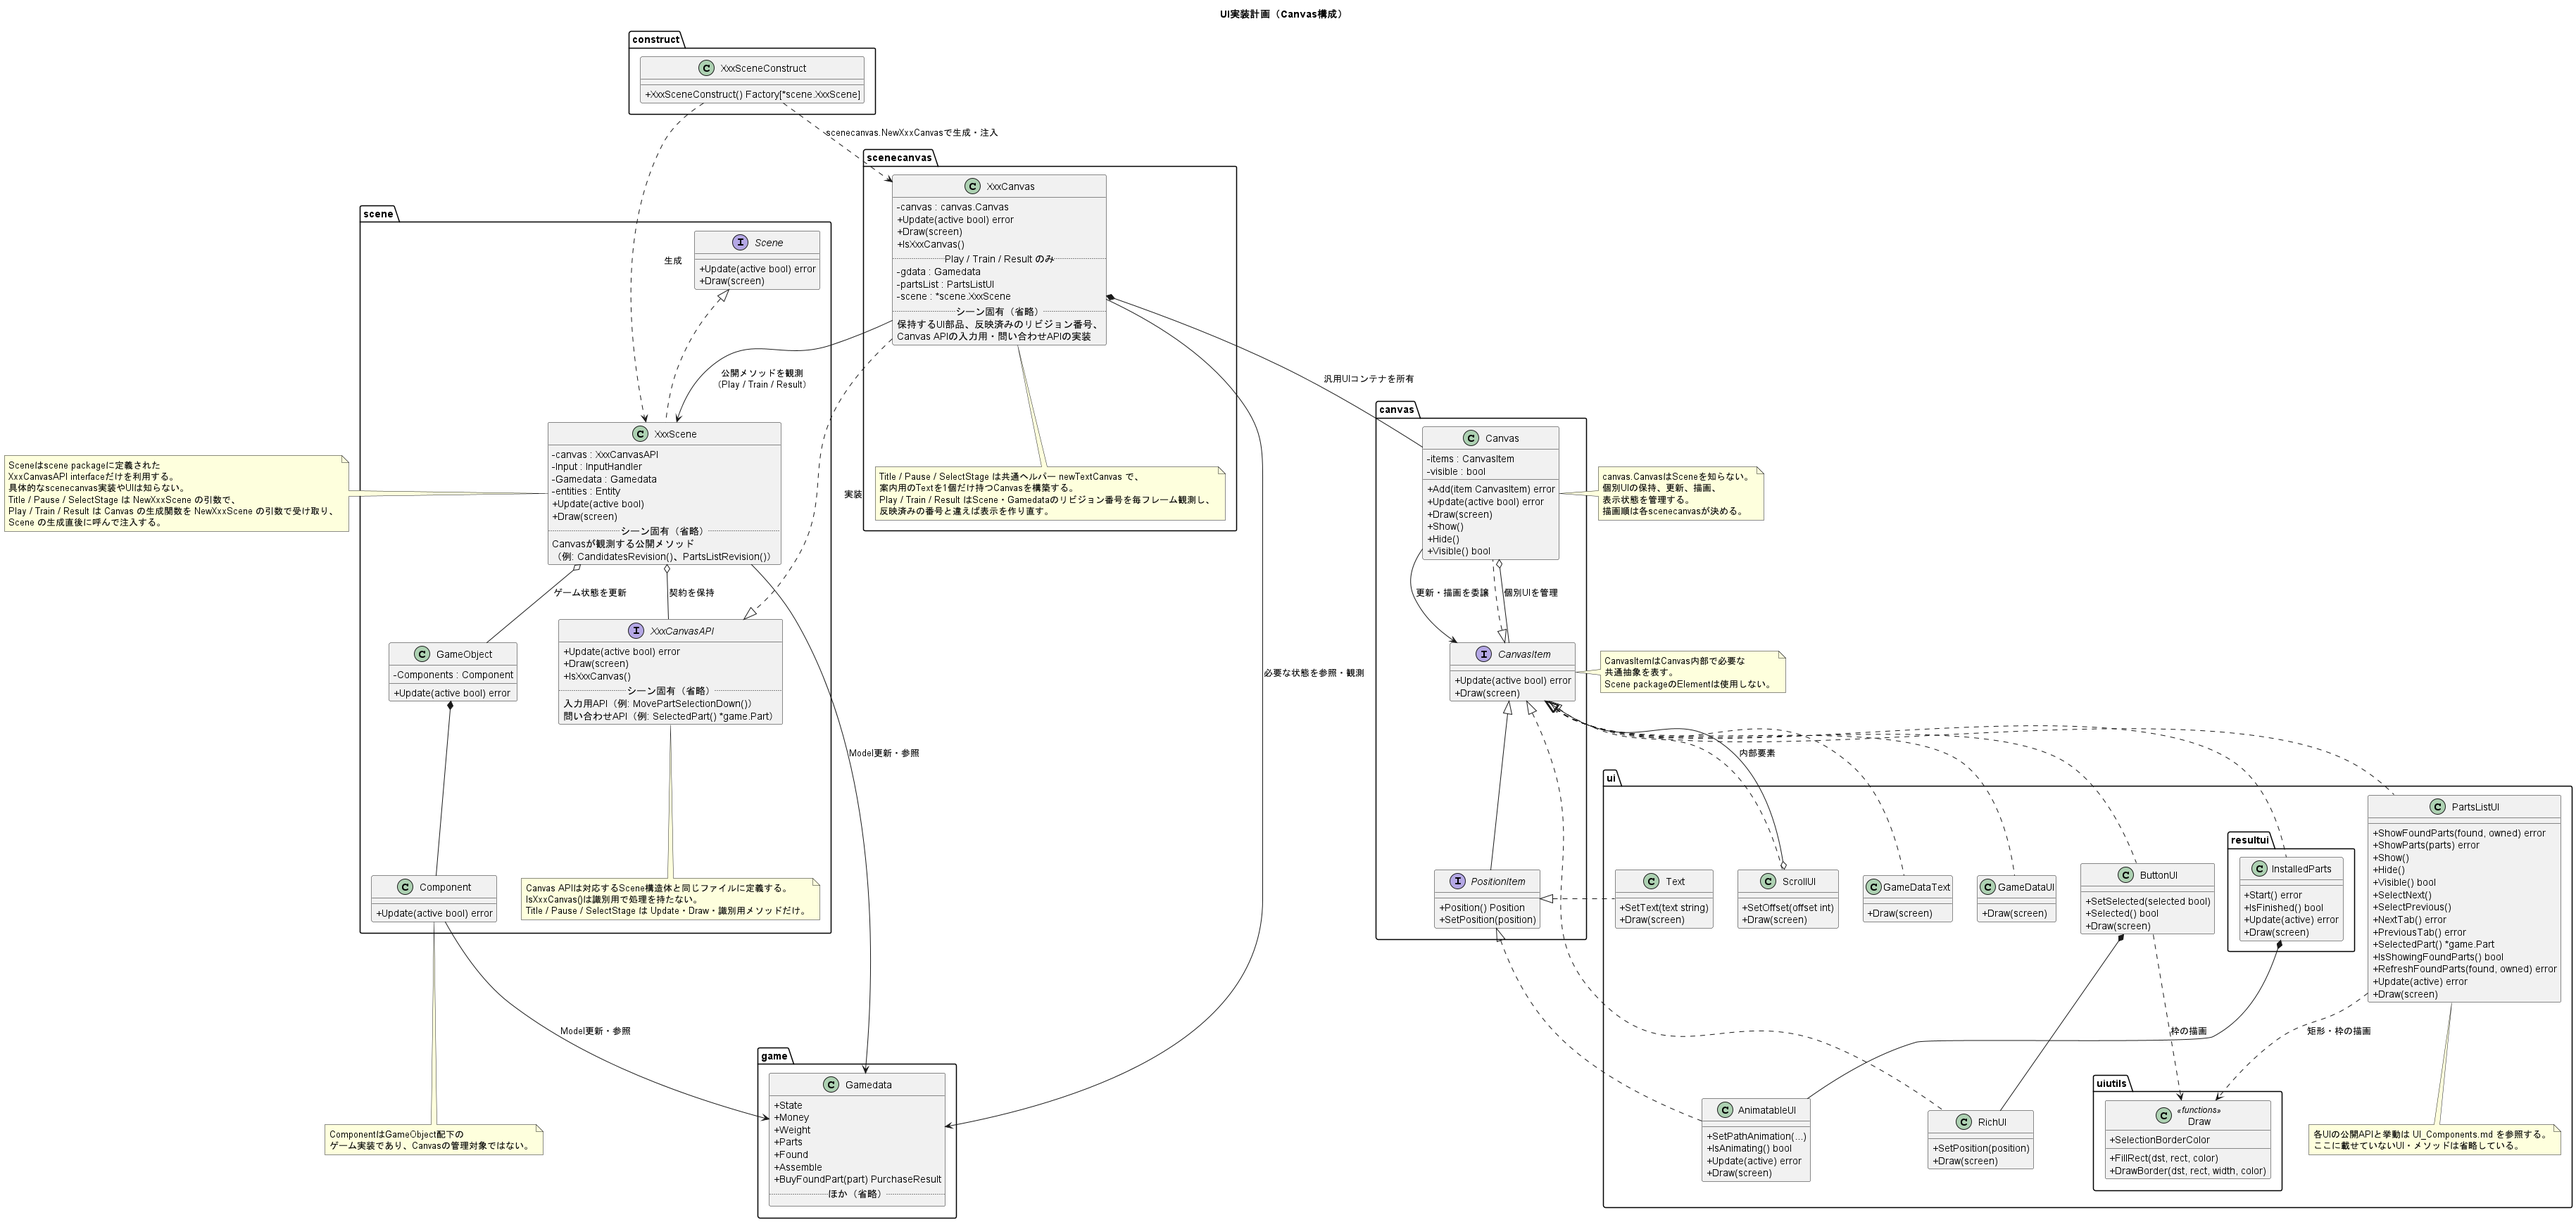
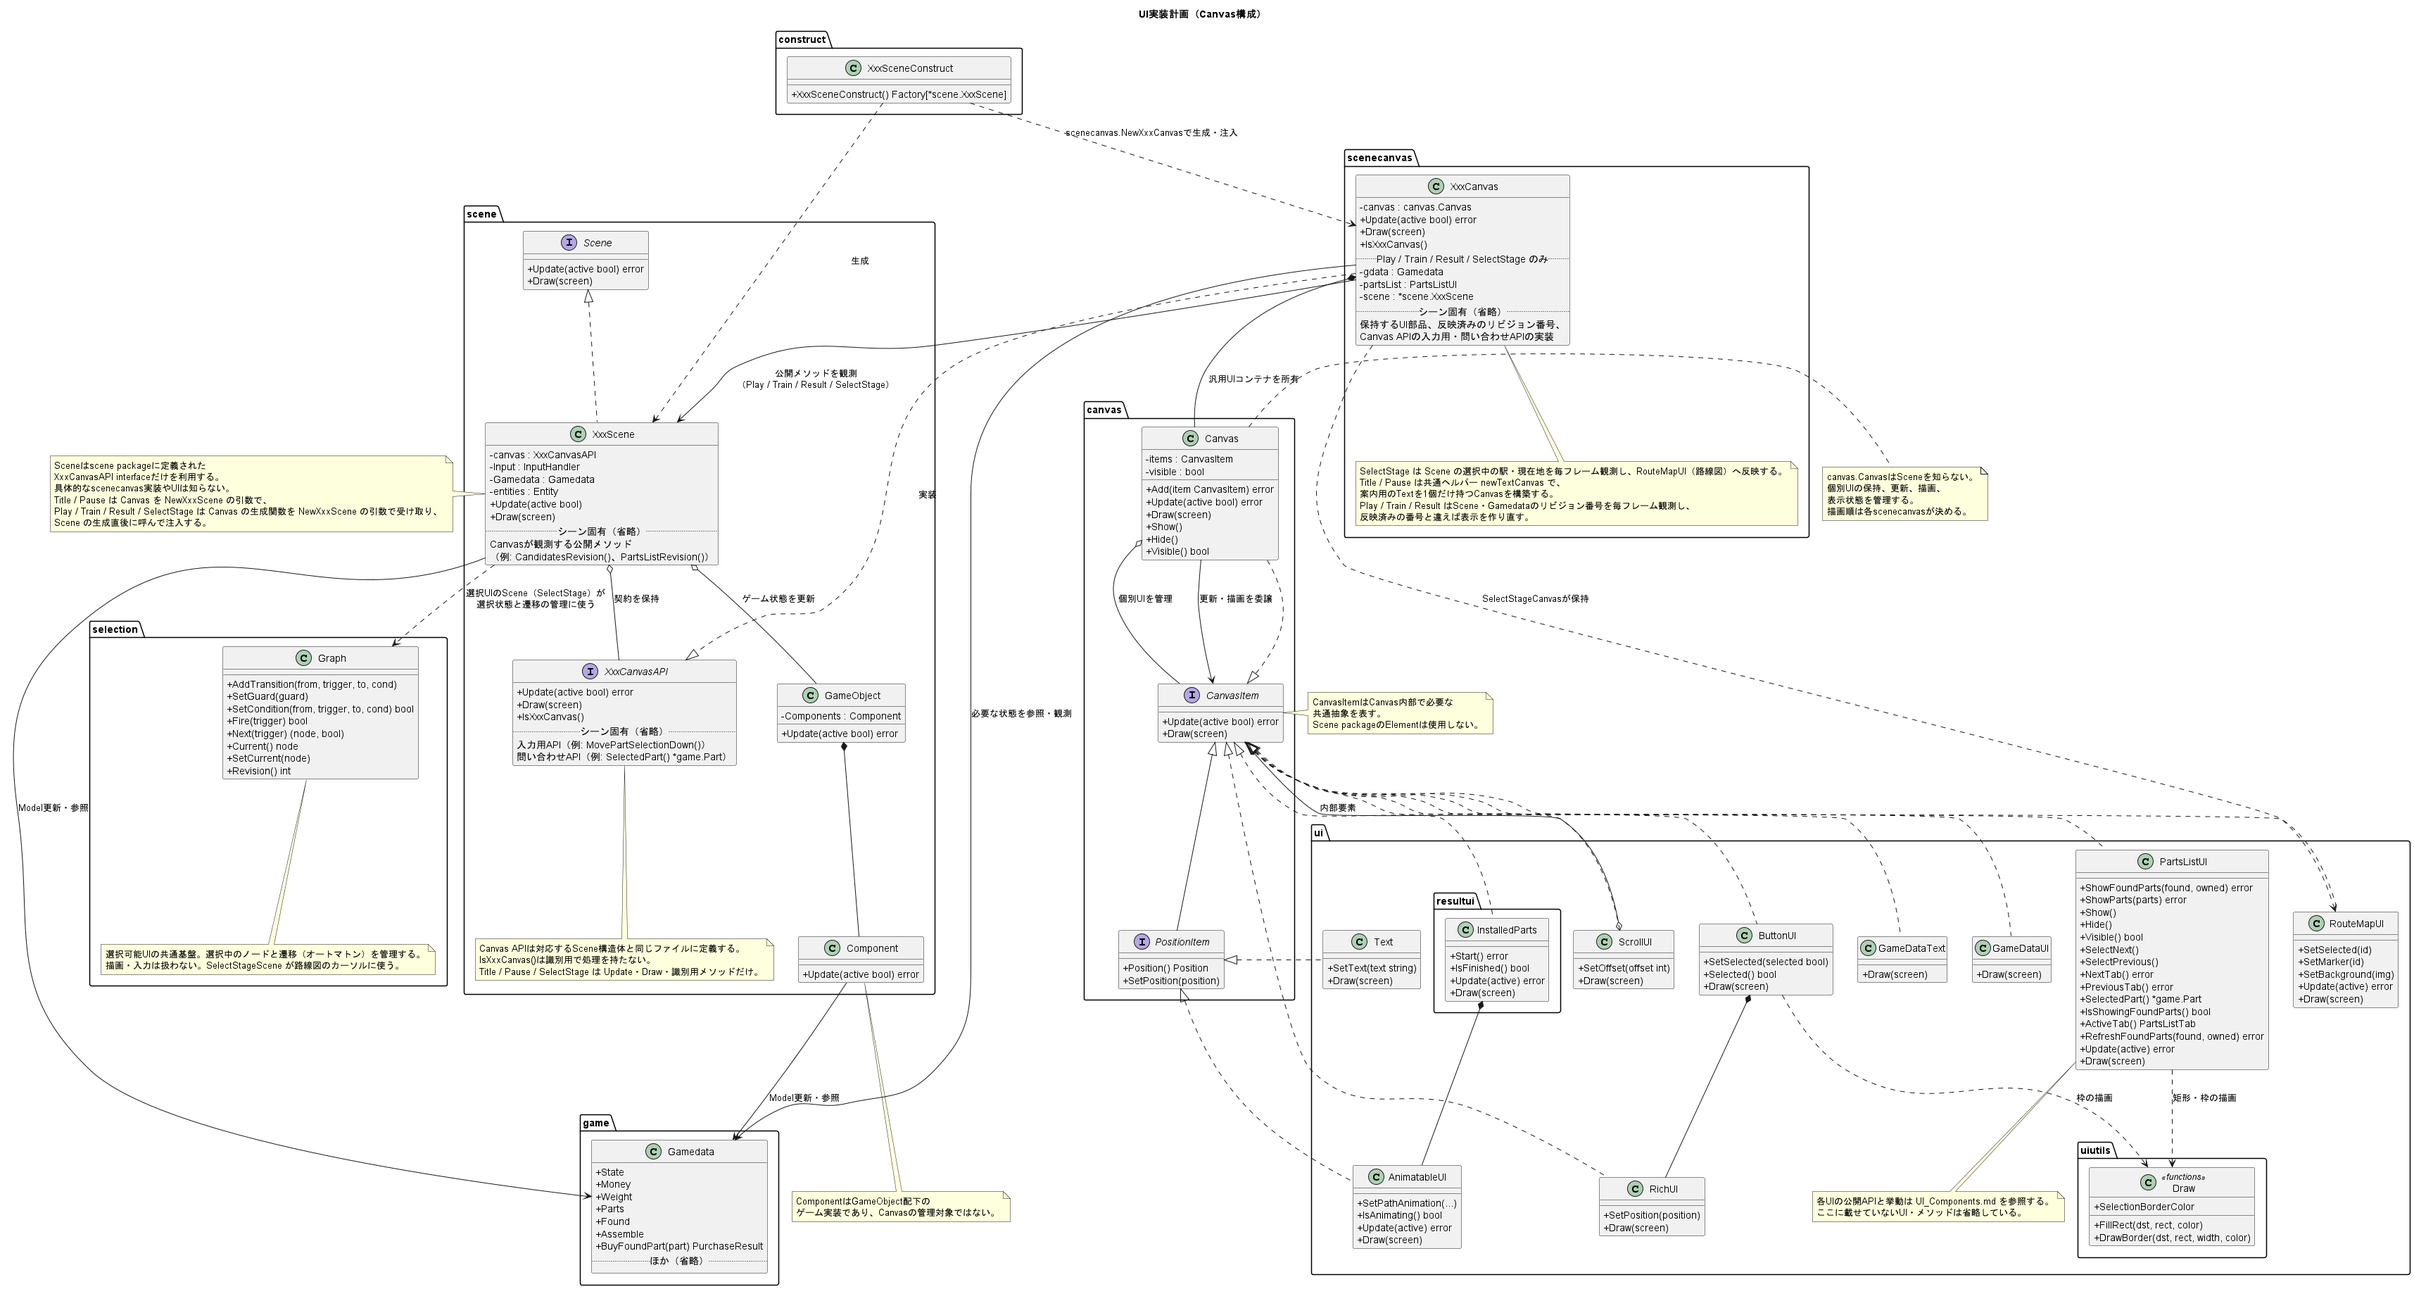
行き先選択UIと選択基盤のドキュメントを追加する
- UI.md: SelectStageCanvas の Canvas API と、Scene を観測する Canvas、selection.Graph の説明
- UI_Components.md: SelectStageCanvas、RouteMapUI、selection.Graph、路線図のキー指定と選択ルールの説明
- Asset.md: シリアライズ対象に StageMap.toml と既存の対象を追記
- クラス図に RouteMapUI と selection.Graph を追加し、PNGを再生成

Claude-Session: https://claude.ai/code/session_01Grk2YqmR2mEZJ2SLkPKW6f

diff --git a/Docs/UI_Components.md b/Docs/UI_Components.md
@@ -38,12 +38,13 @@ Scene 固有の構成は `scenecanvas` package の各 Canvas が決める。
 
 `Source/SceneCanvas` の各 Canvas は、対応する Scene のファイルに定義された Canvas API（`scene.TitleCanvasAPI` など）を実装し、`construct` から Scene へ注入される。
 
-- `TitleCanvas` / `PauseCanvas` / `SelectStageCanvas`: 案内用の `Text` 1個だけを持つ。`NewXxxCanvas(font)` で生成し、`NewXxxScene` の引数で注入する
+- `TitleCanvas` / `PauseCanvas`: 案内用の `Text` 1個だけを持つ。`NewXxxCanvas(font)` で生成し、`NewXxxScene` の引数で注入する
+- `SelectStageCanvas`: 路線図（`RouteMapUI`）と案内 `Text`。`NewSelectStageCanvas(scene, gdata)`。毎フレーム `SelectStageScene.SelectedLocation`（カーソル）と `CurrentLocation`（現在地）を観測して反映する。`StageMap` から駅・路線を組み立てる。行き先選択のルール（隣接駅のみ等）は Scene の `SelectStageRule` を `SetRule` で差し替える。ルールを入れないときは制限なし
 - `PlayCanvas`: 残り時間（`GameDataText`）、空き重量・所持金（`GameDataUI`）、`PartsListUI`。`NewPlayCanvas(scene, gdata)`。`PlayScene.SelectListRevision` の変化で一覧を開く。購入はSceneが`CurrentPartsTab`で発見タブの表示中かを確かめたうえで、`SelectedFoundPart`と`Gamedata.BuyFoundPart`で行い、購入後の一覧は`Gamedata.PartsRevision`の変化を観測して再構築する
 - `TrainCanvas`: 案内 `Text`、`PartsListUI`。`NewTrainCanvas(scene, gdata)`。`TrainScene.PartsListRevision`（または`Gamedata.PartsRevision`）の変化で所持パーツ一覧を構築・表示する
 - `ResultCanvas`: 案内 `Text`、ベンチマーク案内（`AnimatableUI`）、`InstalledParts`、`PartsListUI`。`NewResultCanvas(scene, gdata)`。全UIを毎フレーム`Canvas.Update`で更新する。組み立て済みパーツの表示は`Result_Assembled`、ベンチマーク案内のアニメーションは`Result_Benchmark`に変わったときに開始する
 
-Play / Train / Result の Canvas は Scene のポインタや Gamedata を観測して表示を切り替える。そのため、Canvas 本体ではなく Canvas の生成関数（`func(*XxxScene) (XxxCanvasAPI, error)`）を `NewXxxScene` に渡し、Scene のコンストラクタが自身の生成直後に呼んで注入する。生成関数がエラーや `nil` を返したときは Scene の生成エラーになる。
+Play / Train / Result / SelectStage の Canvas は Scene のポインタや Gamedata を観測して表示を切り替える。そのため、Canvas 本体ではなく Canvas の生成関数（`func(*XxxScene) (XxxCanvasAPI, error)`）を `NewXxxScene` に渡し、Scene のコンストラクタが自身の生成直後に呼んで注入する。生成関数がエラーや `nil` を返したときは Scene の生成エラーになる。
 
 状態変化の観測にはリビジョン番号（変化するたびに増える整数）を使う。書き換える側（Scene・Gamedata）が変更時に番号を増やし、Canvas は反映済みの番号と比べて違っていれば作り直す。
 
@@ -95,6 +96,38 @@ Play / Train / Result の Canvas は Scene のポインタや Gamedata を観測
 子要素の座標はコンテンツバッファの座標系で指定する。スクロール量は自動的に 0 から最大値までクランプされる。
 
 ScrollUI は表示と子要素の更新だけを担当し、マウスホイールやキー入力の解釈は行わない。オフセットは ScrollUI を持つUI（`PartsListUI` など）が設定する。ボタン等のUIはマウス判定を行わない方針のため、子要素向けの座標変換は提供しない。
+
+## RouteMapUI
+
+`RouteMapUI[N]`（`Source/UI/RouteMapUI.go`）は、ノード（駅）とそれを結ぶ辺を路線図として描画する。`scene` を import しない汎用部品で、入力は扱わない。ノードの ID 型 `N` は呼び出し側が決める（`SelectStageCanvas` は `stageinfo.Location`）。
+
+- `NewRouteMapUI(refSize, nodes, edges, fontSource)`: 基準サイズ・ノード（`RouteMapNode{ID, Pos, Label, Image}`）・辺（ID の組）から生成する。ID の重複、辺の端が未定義のとき、`refSize` が正でないときはエラー
+- `SetSelected(id)`: 選択中のノードを設定する（オレンジの脈動するリング）。未知の ID は何もしない
+- `SetMarker(id)`: 現在地のノードを設定する（ノード内側の青い円）。未知の ID は何もしない
+- `SetBackground(img)`: 路線図の背景画像を設定する。基準サイズ全体に引き伸ばして描く。`nil` で背景なし
+- `Update(active)`: 選択リングの脈動のためにフレームを進めるだけ
+
+座標は `refSize`（基準サイズ）上の値で、`Draw` 時に画面サイズへアスペクト比を保ったまま拡大縮小し、中央に描く。画面サイズが変わっても座標を決め打ちしない。
+`RouteMapNode.Image` が `nil` のノードは円で描く。画像を指定すると中心を `Pos` に合わせて描くため、絵が届いたらノードごとに差し替えられる。
+
+## selection.Graph
+
+`selection.Graph[N, T]`（`Source/Utils/Selection`）は、選択可能UIの「いま選んでいるノード」と「どの入力でどこへ移るか」を管理する共通基盤で、オートマトン（状態遷移グラフ）として扱う。描画と入力の取得は行わず、ebiten に依存しない。
+
+- `NewGraph(initial)`: 初期ノードを指定して生成する
+- `AddTransition(from, trigger, to, cond)`: 遷移を登録する。`cond` が `nil` なら無条件。同じ `(from, trigger)` に複数登録した場合は登録順に評価し、最初に条件を満たしたものを採用する
+- `Fire(trigger) bool`: 現在のノードで発火する。遷移したら `true`。遷移先がない・条件を満たさないときは何もせず `false`
+- `Next(trigger) (N, bool)`: `Fire` した場合の遷移先を、状態を変えずに返す
+- `Current()` / `SetCurrent(n)`: 現在のノード。`SetCurrent` は値が変わったときだけ `Revision` を増やす
+- `Revision() int`: 選択が変化するたびに増える整数。UIが変化を観測するために使う
+- `SetGuard(guard)`: 全遷移に共通の条件（`guard(from, trigger, to) bool`）を設定する。`nil` で解除。遷移の登録をやり直さずにルールを入れ替えるための差し替え口
+- `SetCondition(from, trigger, to, cond) bool`: 登録済みの遷移1本の条件を差し替える。`nil` で無条件に戻る。該当する遷移がなければ `false`
+
+`Direction`（`Left` / `Right` / `Up` / `Down`）と `Directions()` を上下左右移動用のトリガーとして同梱している。
+
+`SelectStageScene` は `stageinfo.StageMap.NewSelector` で路線図から `Graph` を作る。上下左右の移動先は、路線でつながった駅の位置関係から自動で決まる（方向キーの向きと 60° 以内で最も近い路線）。自動で決まるキーを変えたい路線は、`StageMap.toml` の `[[Lines]]` に `FromKey`（From の駅で To へ進むキー）/ `ToKey`（To の駅で From へ戻るキー）を `"Left"` / `"Right"` / `"Up"` / `"Down"` で書いて明示する。明示した向きは自動導出より優先され（その向きは自動では決めない）、書かない向きは自動のまま。同じ駅の同じキーに別の行き先を明示した場合と、どのキーでも選べない路線があるときは起動時エラーになる。路線図の定義は `Assets/Serialize/StageMap.toml`（`StageMapConfig`）。
+
+行き先選択のルールは、`NewSelectStageScene` の末尾の Functional Options `scene.WithRule(scene.SelectStageRule{...})` で生成時に決める。`CanMove(from, to) bool` はカーソルの移動可否（`Graph.SetGuard` として全遷移に効く）、`CanConfirm(loc) bool` は行き先として確定できるかを決める。各関数が `nil` なら制限なしで、`WithRule` を渡さなければルールなし。渡す場所は `SelectStageSceneConstruct.go` で、途中での差し替えは想定していない（参照する `Gamedata` の状態が変われば結果は動的に変わる）。
 
 ## PartsListUI
 

diff --git a/Docs/UI.md b/Docs/UI.md
@@ -156,14 +156,15 @@ SceneごとのCanvas APIの違いは次の表のとおりである。
 
 | Canvas API | 入力用 | 問い合わせ | Canvasが観測するもの |
 |---|---|---|---|
-| `TitleCanvasAPI` / `PauseCanvasAPI` / `SelectStageCanvasAPI` | なし | なし | なし |
+| `TitleCanvasAPI` / `PauseCanvasAPI` | なし | なし | なし |
+| `SelectStageCanvasAPI` | なし（カーソル移動・決定はSceneが`selection.Graph`で行う） | なし | `SelectStageScene.SelectedLocation`・`CurrentLocation`・`StageMap` |
 | `PlayCanvasAPI` | `TogglePartsList`、`MovePartSelectionDown/Up`、`ShowNextPartsTab`、`ShowPreviousPartsTab` | `IsPartsListOpen`、`CurrentPartsTab`、`SelectedFoundPart` | `PlayScene.SelectListRevision`、`Gamedata.PartsRevision` |
 | `TrainCanvasAPI` | `ScrollPartsListDown/Up` | なし | `TrainScene.PartsListRevision`、`Gamedata.PartsRevision` |
 | `ResultCanvasAPI` | `MovePartSelectionDown/Up` | `SelectedPart`、`IsInstalledPartsFinished` | `ResultScene.CandidatesRevision`・`CandidateParts`、`Gamedata.State` |
 
 注意点:
 
-- CanvasがSceneのポインタを持つScene（Play / Train / Result）は、Canvasの生成関数（`func(*XxxScene) (XxxCanvasAPI, error)`）を`NewXxxScene`の引数で受け取り、Scene自身の生成直後に呼んで注入する。注入忘れや`nil`はScene生成時のエラーになる。CanvasはSceneの具体型に依存する（別Sceneを誤って受け取らないため、interfaceにはしない）。
+- CanvasがSceneのポインタを持つScene（Play / Train / Result / SelectStage）は、Canvasの生成関数（`func(*XxxScene) (XxxCanvasAPI, error)`）を`NewXxxScene`の引数で受け取り、Scene自身の生成直後に呼んで注入する。注入忘れや`nil`はScene生成時のエラーになる。CanvasはSceneの具体型に依存する（別Sceneを誤って受け取らないため、interfaceにはしない）。
 - Sceneの`Update`は本体の処理の後で`canvas.Update`を呼び、同じフレームの状態変化をCanvasが観測できるようにする。
 - Canvasは`Gamedata.Timer.Expired()`を呼ばない。通知を消費するため、Sceneが満了を検知できなくなる。タイマー判定はSceneが行い、結果を公開メソッドで渡す。
 - 購入はSceneが行う。Sceneは`CurrentPartsTab`で発見タブの表示中かを確かめ、それ以外なら何もしない。発見タブなら`SelectedFoundPart`で受け取ったパーツを`Gamedata.BuyFoundPart`へ渡し、購入後の一覧の再構築はCanvasが`Gamedata.PartsRevision`の変化を観測して行う。
@@ -234,6 +235,8 @@ UIは、表示を成立させるための一時的な状態を保持してよい
 - メニューの開閉状態
 - 一時的なUIの表示状態
 - 画面内での入力や操作の進行状況
+
+選択中の項目と「どの入力でどこへ移るか」の管理には、共通基盤の`selection.Graph`（`Source/Utils/Selection`）を使える。遷移先と遷移条件を登録しておけば、Sceneが`Fire`でトリガーを渡すだけで選択が移る。遷移条件は`SetGuard`（全遷移共通）と`SetCondition`（1本ずつ）であとから差し替えられる。`SelectStageScene`は路線図のカーソル移動に使い、ゲームルールは`SelectStageRule`（`SetRule`で差し替え）としてScene側に持つ。
 
 UIはこれらを入力によって直接変更しない。Sceneが入力を判定し、Canvas APIの入力用APIを通じて変更を指示する。
 例えば`PartsListUI`は選択中の項目・タブ・表示状態を保持するが、変更は`PlayCanvas`などが`SelectNext`、`NextTab`、`Show`などで行う。

diff --git a/Docs/Asset.md b/Docs/Asset.md
@@ -21,6 +21,18 @@
 ### serialize.TomlLoader
 - .toml を読み込んで対応する型に変換する
 
+### serializetarget package
+- シリアライズ対象
+
+#### 主なシリアライズ対象
+- `InputConfig.toml`: アクションとキーの対応（キーマップ）
+- `CameraConfig.toml`: 描画レイヤー名とレイヤー番号の対応
+- `Player.toml`: プレイヤーの名前・初期位置・歩行時間・アニメーションタグ・タイル定義
+- `TileMap.toml`: タイルマップ定義の書式見本（現在はコードから読み込まれていない）
+- `StageConfig.toml`: ステージ名とマップ定義ファイルの対応
+- `Stages/*.toml`: ステージごとのタイルマップ定義（タイルサイズ、床・壁、タイル、オブジェクト配置。`StageConfig.toml` から参照される）
+- `StageMap.toml`: 行き先選択画面の路線図（駅の座標・ラベルと、駅をつなぐ路線）。座標は `Width` x `Height` の基準サイズ上の値で、絵が届いたら絵に合わせて調整する
+
 ### imageassets.ImageManager
 - Image 系の末端
 
